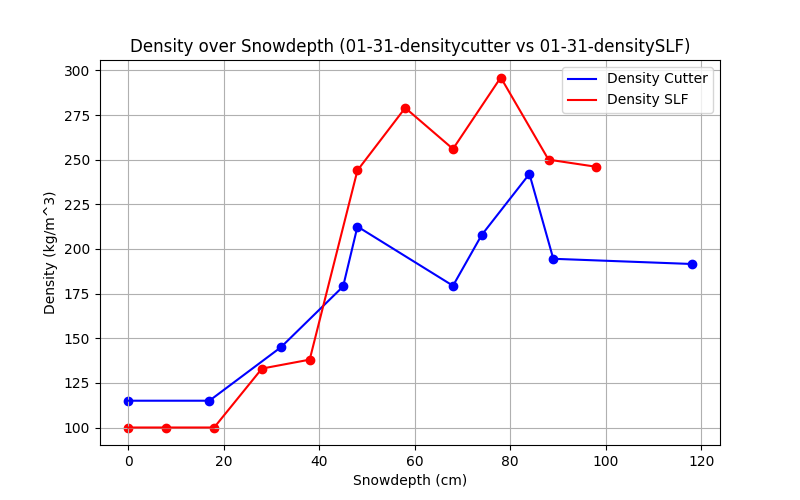
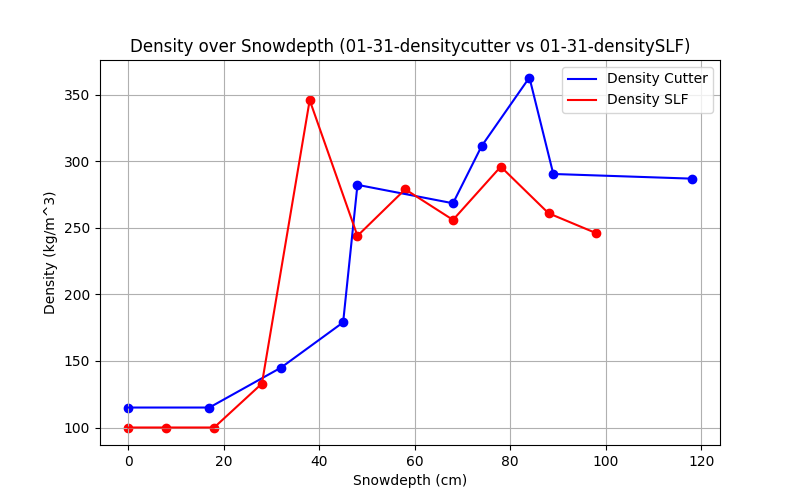
new calc of density mean

diff --git a/visualizationsdensity.py b/visualizationsdensity.py
@@ -7,21 +7,36 @@ target_dir = Path("output/visualizations")
 
 def load_csv(file_name):
     df = pd.read_excel(file_name)
-    # Drop rows with NaN values in snowdepth or mean
-    df = df[["snowdepth", "mean"]].dropna()
+    # take only relevant rows
+    df = df[["snowdepth", "density1","density2","density3","density4"]]
     # Ensure numeric conversion
     df["snowdepth"] = pd.to_numeric(df["snowdepth"], errors="coerce")
-    df["mean"] = pd.to_numeric(df["mean"], errors="coerce")
-    # Drop any remaining NaN after conversion
-    df = df.dropna()
-    snowdepth = df["snowdepth"]
+    df["density1"] = pd.to_numeric(df["density1"], errors="coerce")
+    df["density2"] = pd.to_numeric(df["density2"], errors="coerce")
+    df["density3"] = pd.to_numeric(df["density3"], errors="coerce")
+    df["density4"] = pd.to_numeric(df["density4"], errors="coerce")
+
+    #Means
+    df["mean"] = df[["density1", "density2", "density3", "density4"]].mean(axis=1)
+    #delete rows were man has a NaN value
+    df = df.dropna(subset=["mean"])
+
+    #Min and max values for density
+    df["min"] = df[["density1", "density2", "density3", "density4"]].min(axis=1)
+    df["max"] = df[["density1", "density2", "density3", "density4"]].max(axis=1)
+
     mean = df["mean"]
+    snowdepth = df["snowdepth"]
     return snowdepth, mean
 
 def plot_density(snowdepth, mean, snowdepthslf, meanslf, cutter_name, slf_name):
     plt.figure(figsize=(8, 5))
+
+    #plot density cutter
     plt.scatter(snowdepth, mean, color='blue')
     plt.plot(snowdepth, mean, color='blue', label='Density Cutter')
+
+    #plot density SLF - mostly we have only one value, so only few error bars
     plt.scatter(snowdepthslf, meanslf, color='red')
     plt.plot(snowdepthslf, meanslf, color='red', label='Density SLF')
     plt.xlabel("Snowdepth (cm)")
